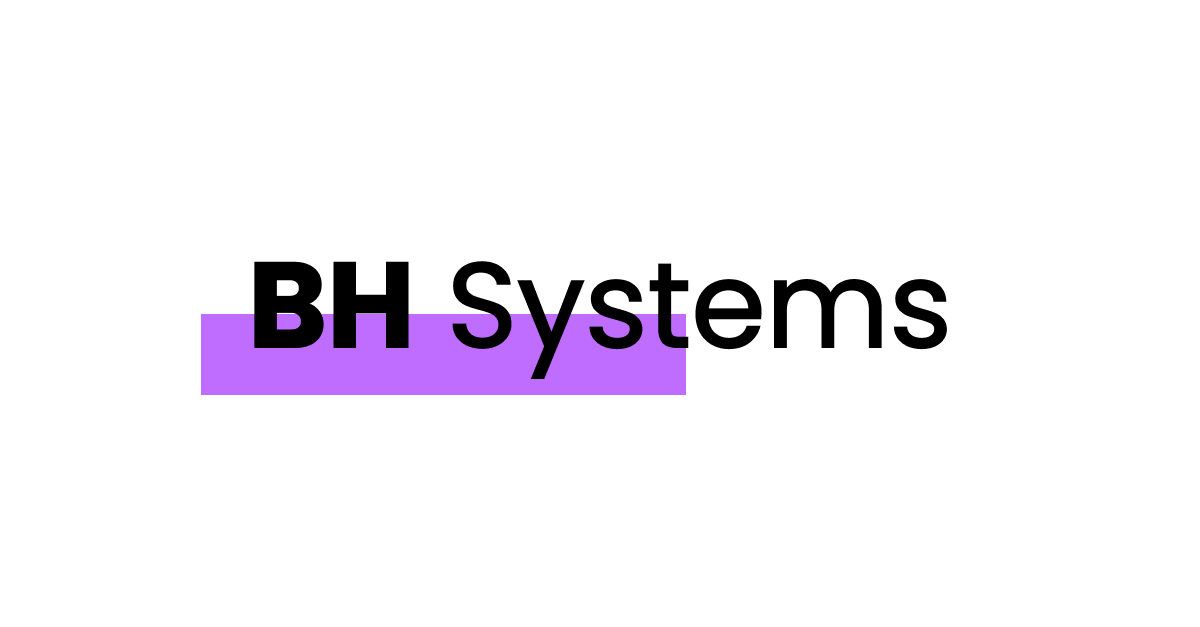
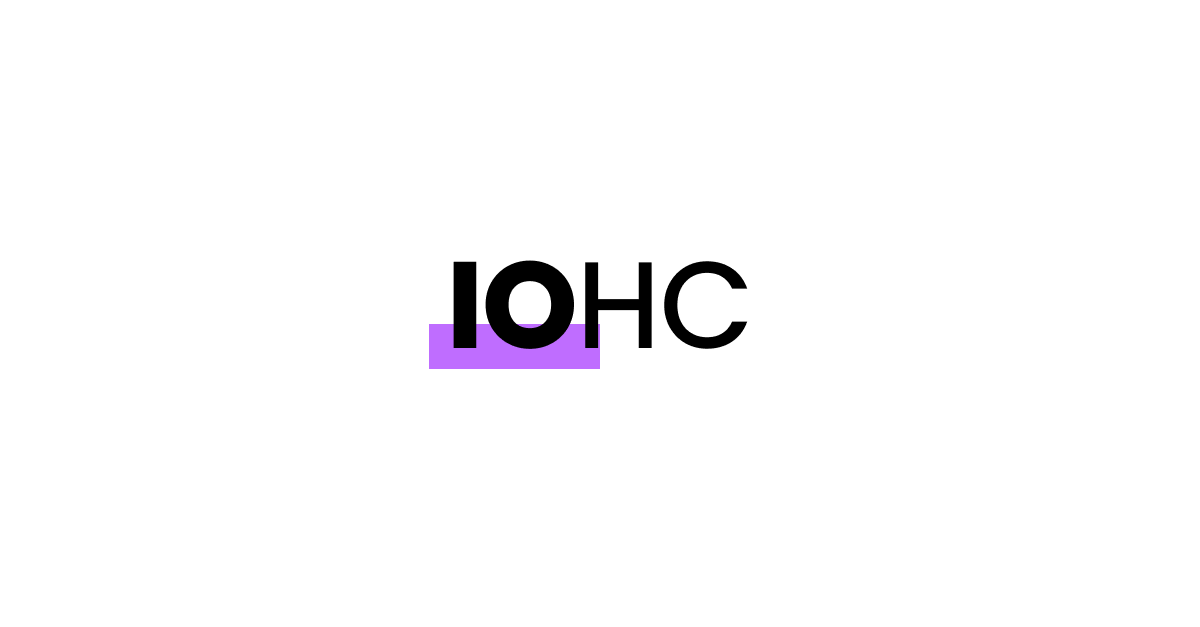
fix: move bh-systems to iohc

Changed region(s): [[0.1542, 0.3939, 0.8017, 0.6364]]

diff --git a/src/routes/iohc/+page.svelte b/src/routes/iohc/+page.svelte
@@ -1,17 +1,18 @@
 <svelte:head>
-	<title>BH Systems Meetup</title>
+	<title>IOHC Meetup</title>
 
-	<meta property="og:title" content="BH Systems Meetup" />
+	<meta property="og:title" content="IOHC Meetup" />
 	<meta property="og:type" content="website" />
-	<meta property="og:url" content="https://www.algebraic.dev/bh-systems" />
+	<meta property="og:url" content="https://www.algebraic.dev/iohc" />
 	<meta property="og:image" content="https://www.algebraic.dev/description.png" />
+
 	<meta
 		property="og:description"
 		content="Evento mensal de tech talks sobre system programming :D"
 	/>
 
-	<meta name="twitter:site" content="BH Systems Meetup" />
-	<meta name="twitter:title" content="BH Systems Meetup" />
+	<meta name="twitter:site" content="IOHC Meetup" />
+	<meta name="twitter:title" content="IOHC Meetup" />
 	<meta
 		name="twitter:description"
 		content="Evento mensal de tech talks sobre system programming :D"
@@ -25,8 +26,8 @@
 <main class="container">
 	<article>
 		<div class="title">
-			<h1 class="first">BH</h1>
-			<h1 class="sec">Systems</h1>
+			<h1 class="first">IO</h1>
+			<h1 class="sec">HC</h1>
 			<a class="telegram" href="https://t.me/+9CkDkq-uVXk3YmJh">
 				Telegram
 			</a>
@@ -50,9 +51,8 @@
 			compartilhamento de experiências de aprendizado.
 		</p>
 		<p>
-			Para submeter uma proposta de talk acesse esse <a href="https://forms.gle/XZAbYyx5yeHZMeUW8"
-				>formulário</a
-			>
+			Para submeter uma proposta de talk acesse esse
+			<a href="https://forms.gle/XZAbYyx5yeHZMeUW8">formulário</a>
 		</p>
 		<p>
 			Você precisa apenas de um conhecimento básico em programação para acompanhar nossas palestras.
@@ -62,22 +62,10 @@
 			experientes.
 		</p>
 		<h2>Local</h2>
-		<p>Ainda estamos procurando um local!</p>
-		<h2>Talks</h2>
-		<table>
-			<thead>
-				<tr>
-					<th scope="col">Nome</th>
-					<th scope="col">Tópico</th>
-				</tr>
-			</thead>
-			<tbody>
-				<tr>
-					<th scope="row">Sofia</th>
-					<td>Perceus GC: Superando a performance de linguagens imperativas com linguagens puramente funcionais</td>
-				</tr>
-			</tbody>
-		</table>
+		<p>
+			O evento será presencial e provavelmente nessas primeiras vezes em Belo Horizonte. Ainda estamos
+			procurando um local!
+		</p>
 		<h2>Contato</h2>
 		<p>
 			Se desejar discutir qualquer tópico relacionado a talks, compartilhar ideias ou simplesmente
@@ -95,7 +83,7 @@
 			<li>
 				Evento
 				<ul>
-					<li>Email: bh.systems@algebraic.dev</li>
+					<li>Email: iohc@algebraic.dev</li>
 				</ul>
 			</li>
 		</ul>
@@ -145,11 +133,10 @@
 	.title {
 		display: flex;
 		align-items: center;
-  		justify-content: center;
 	}
 
 	.first {
-		margin-right: 10px;
+		margin-right: 2px;
 		font-weight: bold;
 	}
 
